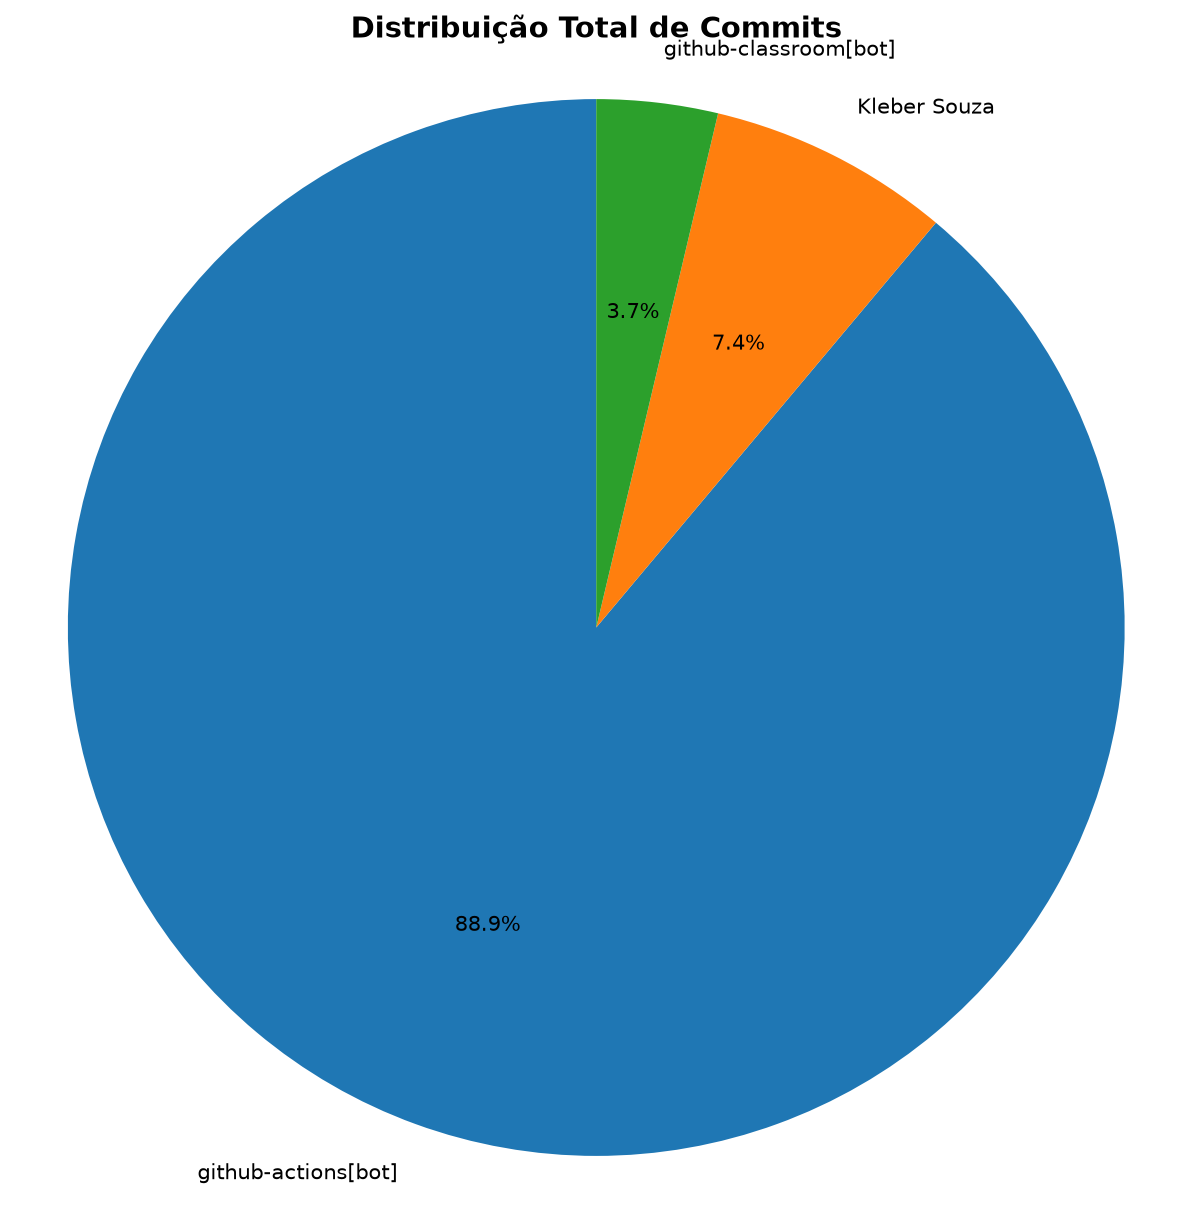
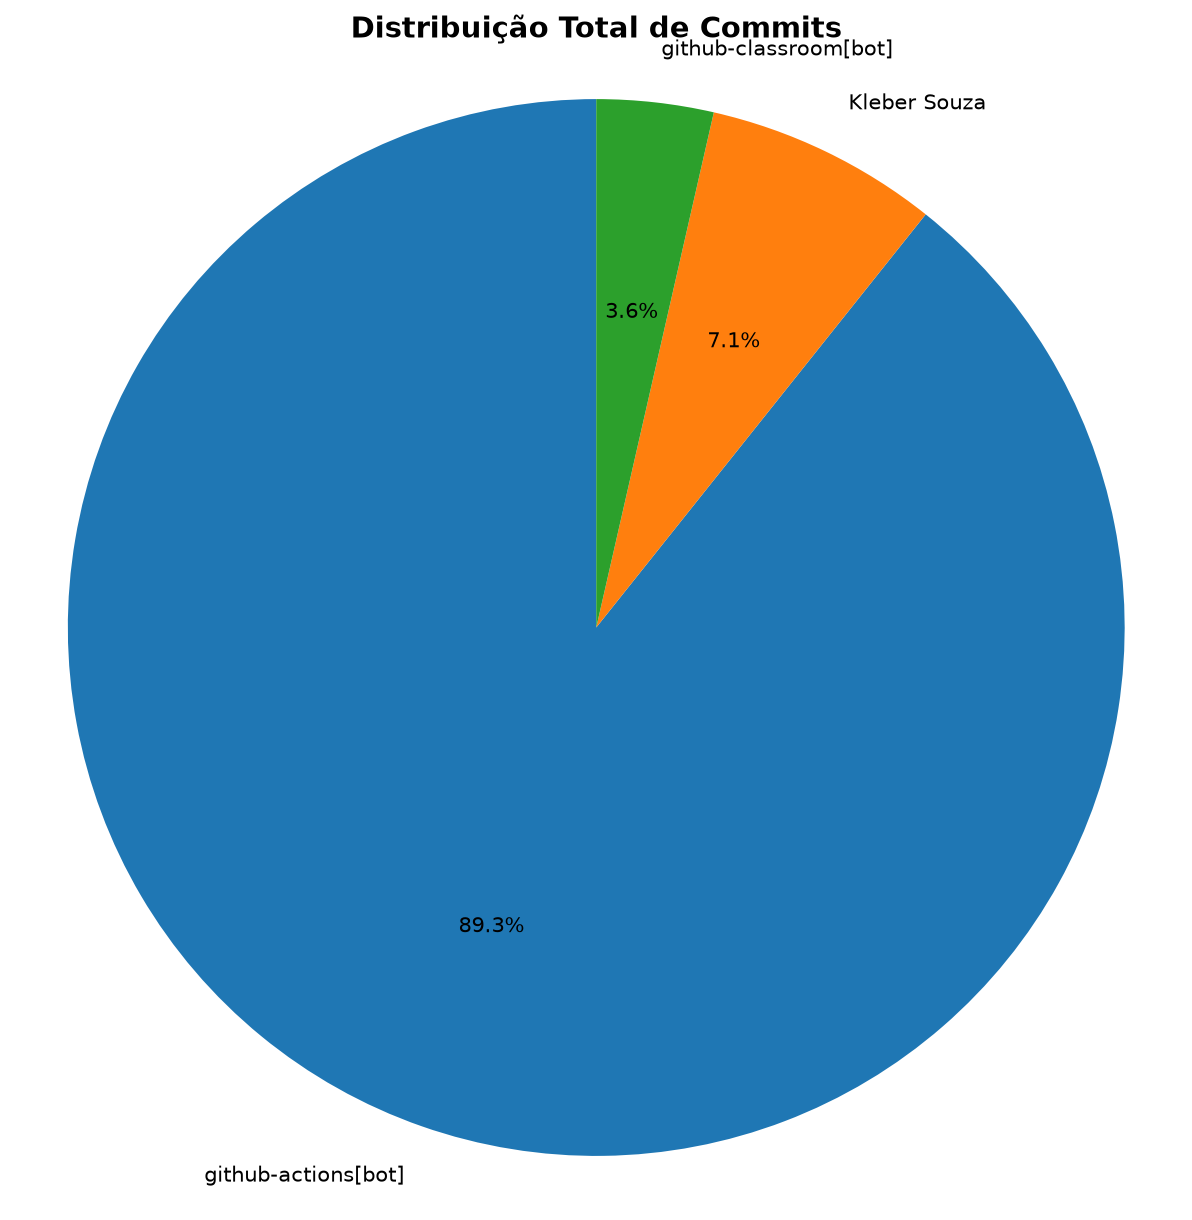
📊 Atualizar relatório de contribuições [skip ci]

diff --git a/docs/CONTRIBUTION_REPORT.md b/docs/CONTRIBUTION_REPORT.md
@@ -1,6 +1,6 @@
 # 📊 Relatório de Contribuições do Projeto
 
-**Última atualização:** 13/07/2026 03:39
+**Última atualização:** 20/07/2026 03:48
 
 ---
 
@@ -9,13 +9,13 @@
 | Aluno                 |   Commits |   Linhas+ |   Linhas- |   Arquivos |   Docs Commits |   Docs Arquivos |
 |-----------------------|-----------|-----------|-----------|------------|----------------|-----------------|
 | Kleber Souza          |         2 |         2 |         2 |          2 |              2 |               2 |
-| github-actions[bot]   |        24 |       117 |        88 |          3 |             24 |               1 |
+| github-actions[bot]   |        25 |       123 |        92 |          3 |             25 |               1 |
 | github-classroom[bot] |         1 |      2291 |         0 |         45 |              1 |              13 |
 
 
 ## 📅 Contribuições Semanais (Todo o Semestre)
 
-**2026-07-06**: github-actions[bot]: 1
+**2026-07-06**: github-actions[bot]: 2
 
 **2026-06-29**: github-actions[bot]: 1
 
@@ -35,7 +35,7 @@
 
 **2026-05-04**: github-actions[bot]: 1
 
-**2026-04-27**: github-actions[bot]: 1
+**2026-04-20**: github-actions[bot]: 1
 
 **2026-04-13**: github-actions[bot]: 1
 
@@ -58,8 +58,6 @@
 **2026-02-09**: github-actions[bot]: 1
 
 **2026-02-02**: github-actions[bot]: 1
-
-**2026-01-26**: Kleber Souza: 2, github-actions[bot]: 2, github-classroom[bot]: 1
 
 
 
